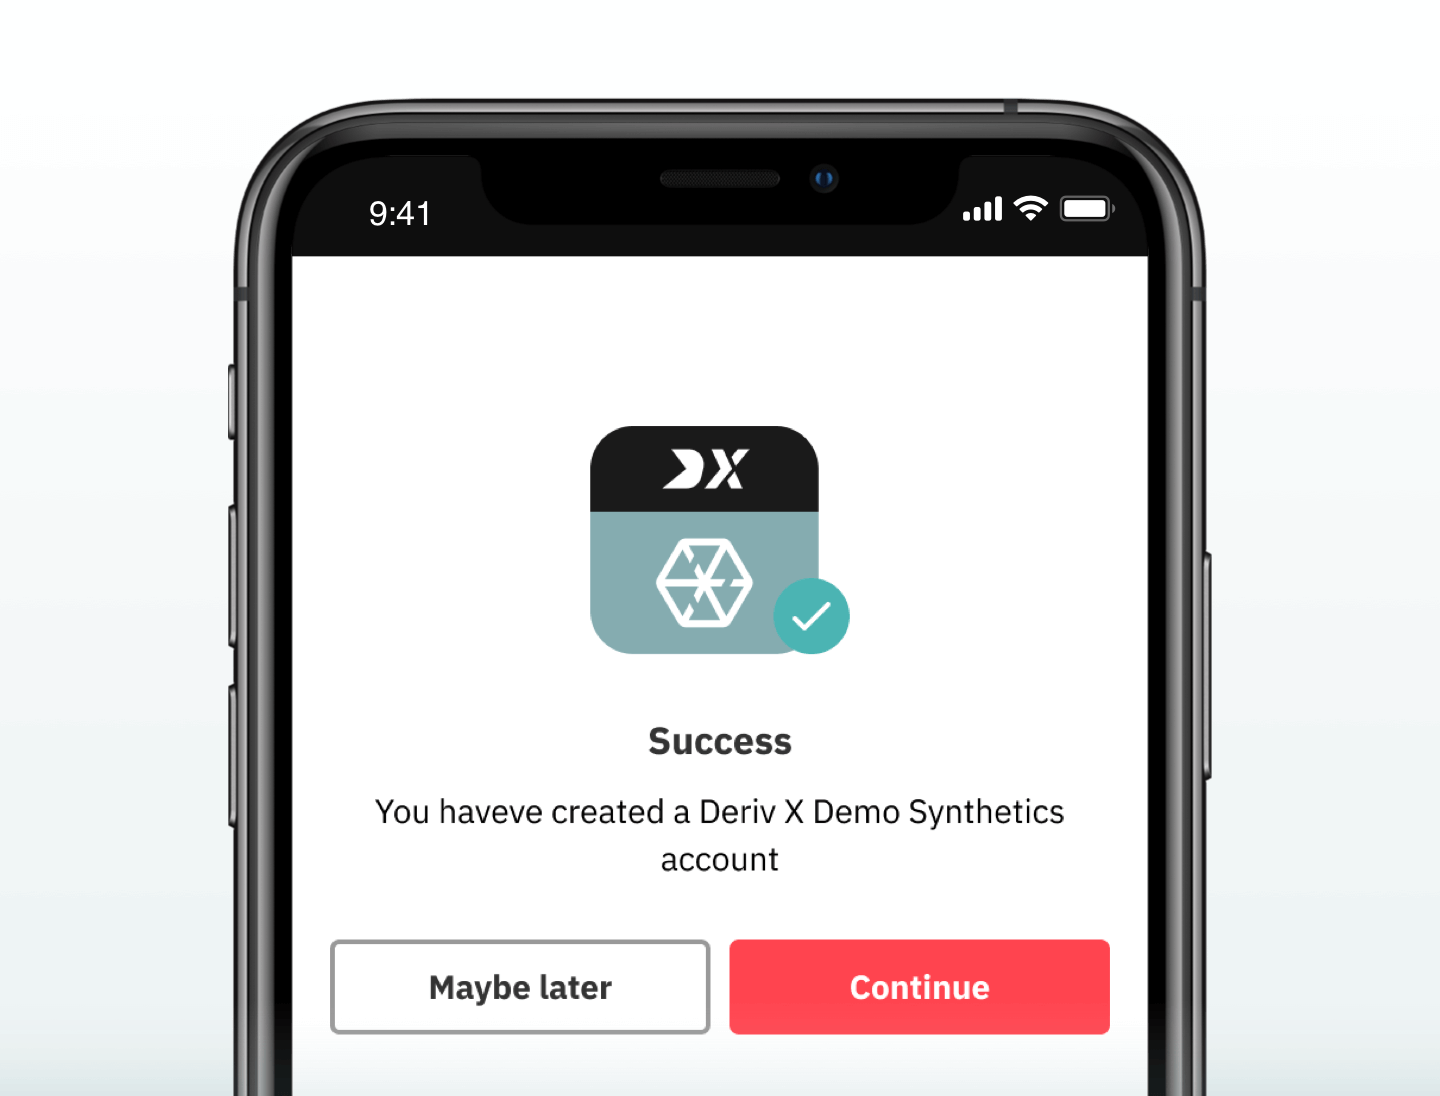
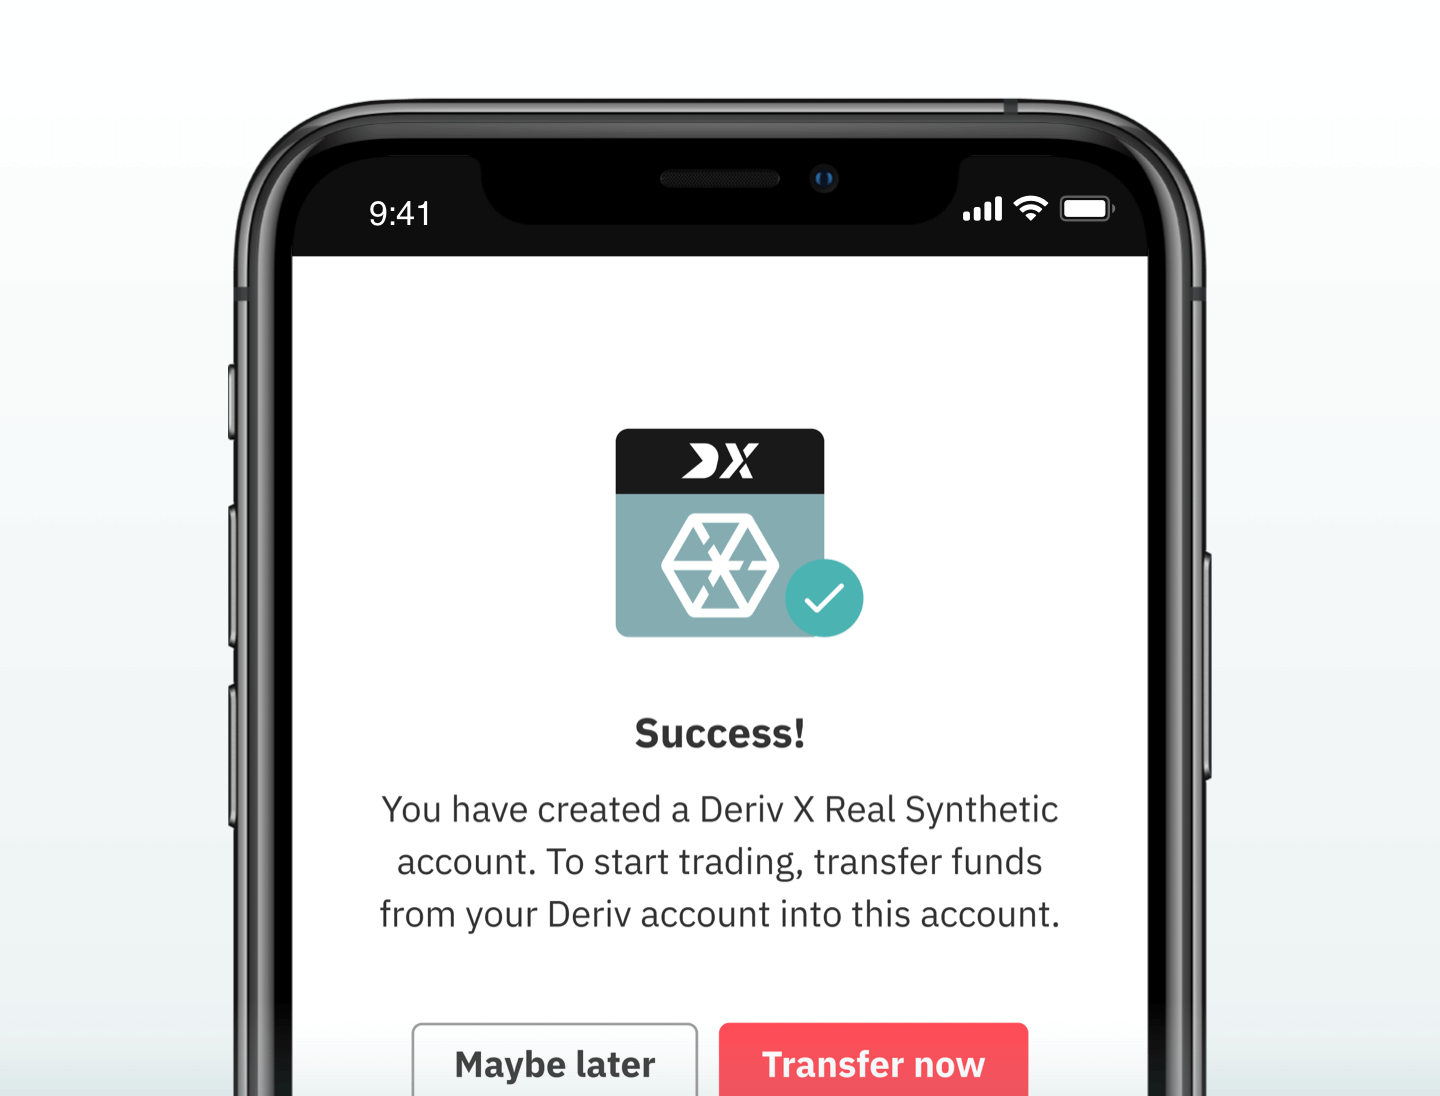
replace image and edit faq

Changed region(s): [[0.2188, 0.6515, 0.7812, 1.0], [0.4062, 0.3723, 0.625, 0.6204]]

diff --git a/src/pages/help-centre/deriv-x.js b/src/pages/help-centre/deriv-x.js
@@ -126,54 +126,54 @@ const DifferentAccounts = () => (
     </ArticleWrapper>
 )
 
-const TradingPassword = () => (
-    <ArticleWrapper>
-        <StyledHeader as="h4">{localize('What is a trading password?')}</StyledHeader>
-        <Text>
-            {localize(
-                'It is a password that gives you access to the standalone trading platforms Deriv MT5 (DMT5) and Deriv X.',
-            )}
-        </Text>
-    </ArticleWrapper>
-)
+// const TradingPassword = () => (
+//     <ArticleWrapper>
+//         <StyledHeader as="h4">{localize('What is a trading password?')}</StyledHeader>
+//         <Text>
+//             {localize(
+//                 'It is a password that gives you access to the standalone trading platforms Deriv MT5 (DMT5) and Deriv X.',
+//             )}
+//         </Text>
+//     </ArticleWrapper>
+// )
 
-const DifferentPassword = () => (
-    <ArticleWrapper>
-        <StyledHeader as="h4">
-            {localize('Why is my trading password different from my Deriv password?')}
-        </StyledHeader>
-        <Text>
-            {localize(
-                'Your trading password is linked to the standalone trading platforms Deriv MT5 (DMT5) and Deriv X, while your Deriv password gives you access to platforms hosted on our website such as DTrader and DBot.',
-            )}
-        </Text>
-    </ArticleWrapper>
-)
+// const DifferentPassword = () => (
+//     <ArticleWrapper>
+//         <StyledHeader as="h4">
+//             {localize('Why is my trading password different from my Deriv password?')}
+//         </StyledHeader>
+//         <Text>
+//             {localize(
+//                 'Your trading password is linked to the standalone trading platforms Deriv MT5 (DMT5) and Deriv X, while your Deriv password gives you access to platforms hosted on our website such as DTrader and DBot.',
+//             )}
+//         </Text>
+//     </ArticleWrapper>
+// )
 
-const ResetDerivXPassowrd = () => (
-    <ArticleWrapper>
-        <StyledHeader as="h4">{localize('How do I reset my Deriv X Password?')}</StyledHeader>
-        <Text>
-            <Localize
-                translate_text="Go to your <0>Account settings</0>. Under “Security and safety”, select “Passwords”. You can reset your Deriv X password under “Trading password”."
-                components={[
-                    <ExternalLink
-                        href={`${deriv_app_url}/account/personal-details`}
-                        target="_blank"
-                        rel="noopener noreferrer"
-                        key={0}
-                    />,
-                ]}
-                deriv_x_app_url
-            />
-        </Text>
-        <StyledText>
-            {localize(
-                'Note: Remember that your trading password is also linked to your Deriv MT5 (DMT5) account.',
-            )}
-        </StyledText>
-    </ArticleWrapper>
-)
+// const ResetDerivXPassowrd = () => (
+//     <ArticleWrapper>
+//         <StyledHeader as="h4">{localize('How do I reset my Deriv X Password?')}</StyledHeader>
+//         <Text>
+//             <Localize
+//                 translate_text="Go to your <0>Account settings</0>. Under “Security and safety”, select “Passwords”. You can reset your Deriv X password under “Trading password”."
+//                 components={[
+//                     <ExternalLink
+//                         href={`${deriv_app_url}/account/personal-details`}
+//                         target="_blank"
+//                         rel="noopener noreferrer"
+//                         key={0}
+//                     />,
+//                 ]}
+//                 deriv_x_app_url
+//             />
+//         </Text>
+//         <StyledText>
+//             {localize(
+//                 'Note: Remember that your trading password is also linked to your Deriv MT5 (DMT5) account.',
+//             )}
+//         </StyledText>
+//     </ArticleWrapper>
+// )
 
 const AccountInformation = () => (
     <ArticleWrapper>
@@ -298,7 +298,7 @@ const DerivXArticle = () => {
                     label="differences-of-synthetic-and-financial"
                     is_mounted={is_mounted}
                 />
-                <TradingPassword
+                {/* <TradingPassword
                     text={localize('What is a trading password?')}
                     label="trading-password"
                     is_mounted={is_mounted}
@@ -312,7 +312,7 @@ const DerivXArticle = () => {
                     text={localize('How do I reset my Deriv X password?')}
                     label="reset-deriv-x-password"
                     is_mounted={is_mounted}
-                />
+                /> */}
                 <AccountInformation
                     text={localize('Where can I find my Deriv X account information?')}
                     label="deriv-x-account-information"

diff --git a/src/pages/help-centre/_help-articles.js b/src/pages/help-centre/_help-articles.js
@@ -291,26 +291,26 @@ export const articles = [
                 sub_category: <Localize translate_text="Platforms" />,
                 label: 'differences-of-synthetic-and-financial',
             },
-            {
-                title: <Localize translate_text="What is a trading password?" />,
-                category: 'Deriv X',
-                sub_category: <Localize translate_text="Platforms" />,
-                label: 'trading-password',
-            },
-            {
-                title: (
-                    <Localize translate_text="Why is my trading password different from my Deriv password?" />
-                ),
-                category: 'Deriv X',
-                sub_category: <Localize translate_text="Platforms" />,
-                label: 'differences-of-trading-and-deriv-password',
-            },
-            {
-                title: <Localize translate_text="How do I reset my Deriv X password?" />,
-                category: 'Deriv X',
-                sub_category: <Localize translate_text="Platforms" />,
-                label: 'reset-deriv-x-password',
-            },
+            // {
+            //     title: <Localize translate_text="What is a trading password?" />,
+            //     category: 'Deriv X',
+            //     sub_category: <Localize translate_text="Platforms" />,
+            //     label: 'trading-password',
+            // },
+            // {
+            //     title: (
+            //         <Localize translate_text="Why is my trading password different from my Deriv password?" />
+            //     ),
+            //     category: 'Deriv X',
+            //     sub_category: <Localize translate_text="Platforms" />,
+            //     label: 'differences-of-trading-and-deriv-password',
+            // },
+            // {
+            //     title: <Localize translate_text="How do I reset my Deriv X password?" />,
+            //     category: 'Deriv X',
+            //     sub_category: <Localize translate_text="Platforms" />,
+            //     label: 'reset-deriv-x-password',
+            // },
             {
                 title: (
                     <Localize translate_text="Where can I find my Deriv X account information?" />
